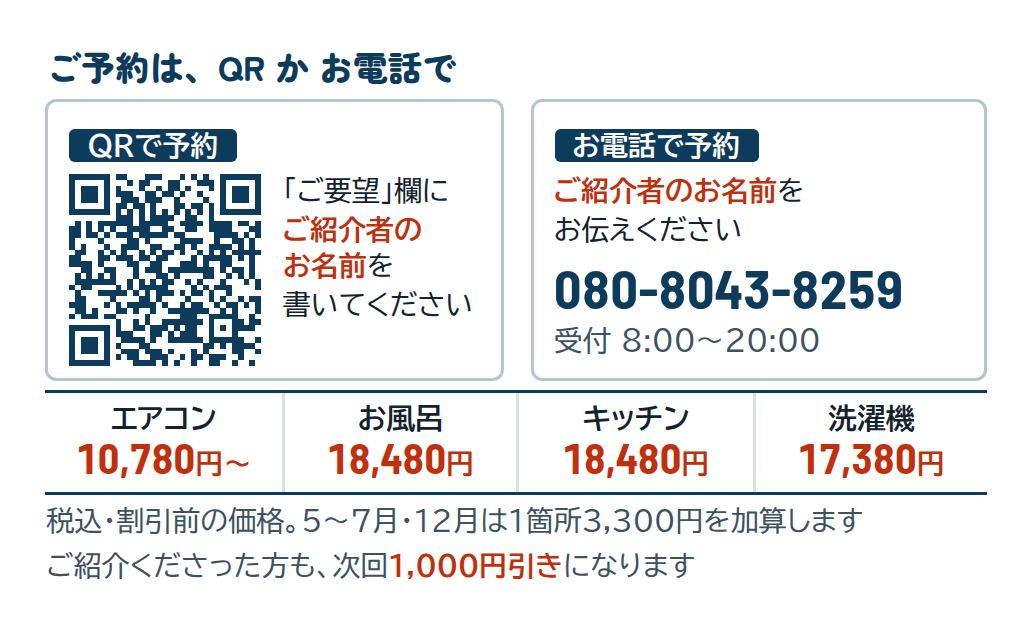
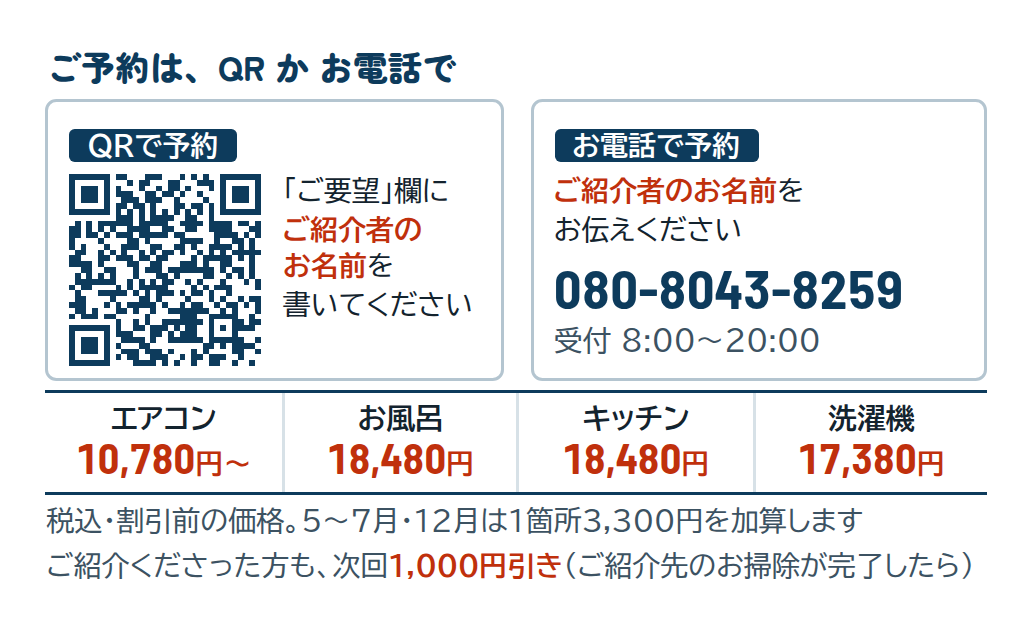
第一弾の決定版：チラシDにエアコン汚水の一文とチラシ特典500円、紹介カードDに有効期限なし
- 表の見出しを「エアコンの中から出てきた水」に（オーナー指示で写真の箇所を確定）
- チラシ特典 500円引き・併用不可（ご要望欄か電話で「チラシを見た」）を表裏に
- 紹介割引：有効期限なし、紹介した方の割引は紹介先の施工完了が条件
- prices.json と price-master に決定を記録
- 検査：要素が縮んで収まったように見える問題を止める

Claude-Session: https://claude.ai/code/session_01BfM6Am6neQsPdbrjtSZMy4

Changed region(s): [[0.5256, 0.8788, 0.9585, 0.9394]]

diff --git a/print/an/chirashi-d.html b/print/an/chirashi-d.html
@@ -19,7 +19,7 @@ mark { background:linear-gradient(transparent 58%,#FFE566 58%); color:inherit; p
 sup.n { font-size:.55em; vertical-align:.5em; margin-left:.2mm; font-family:"BIZ UDPGothic",sans-serif; font-weight:400; }
 
 /* 表 */
-.d-omote .bg { position:absolute; left:0; right:0; top:0; height:105mm; overflow:hidden; background:#0B1E2A; }
+.d-omote .bg { position:absolute; left:0; right:0; top:0; height:92mm; overflow:hidden; background:#0B1E2A; }
 .d-omote .bg img { width:100%; height:100%; object-fit:cover; object-position:50% 62%; display:block; }
 .d-omote .bg::after { content:""; position:absolute; left:0; right:0; bottom:0; height:55%;
                       background:linear-gradient(rgba(11,30,42,0),rgba(11,30,42,.92)); }
@@ -27,11 +27,13 @@ sup.n { font-size:.55em; vertical-align:.5em; margin-left:.2mm; font-family:"BIZ
 .d-omote .hello b { font-family:"Barlow Semi Condensed",sans-serif; letter-spacing:.1em; font-size:10pt; margin-right:1.4mm; }
 .d-omote .hello small { display:block; font-size:7.2pt; font-weight:400; color:#3C5262; }
 .d-omote .hook { margin-top:auto; color:#fff; height:auto; }
-.d-omote .hook-wrap { height:96mm; display:flex; flex-direction:column; }
-.d-omote .hook h1 { font-size:23pt; font-weight:900; line-height:1.3; }
+.d-omote .hook p b { color:#fff; }
+.d-omote .hook-wrap { height:79.6mm; display:flex; flex-direction:column; }
+.d-omote .safe > *, .d-ura .safe > * { flex-shrink:0; }   /* 縮めて詰め込まない。あふれたら検査で止まる */
+.d-omote .hook h1 { font-size:22pt; font-weight:900; line-height:1.3; }
 .d-omote .hook h1 em { font-style:normal; color:#FFE566; }
 .d-omote .hook p { font-size:9pt; color:#E3EDF3; margin-top:1.8mm; line-height:1.6; }
-.d-omote .prices { display:grid; grid-template-columns:repeat(4,1fr); margin-top:5mm; border-top:.45mm solid #0D3B5C; border-bottom:.45mm solid #0D3B5C; }
+.d-omote .prices { display:grid; grid-template-columns:repeat(4,1fr); margin-top:6.4mm; border-top:.45mm solid #0D3B5C; border-bottom:.45mm solid #0D3B5C; }
 .d-omote .prices div { text-align:center; padding:2mm .6mm 1.8mm; border-left:.2mm solid #D7E1E7; }
 .d-omote .prices div:first-child { border-left:0; }
 .d-omote .prices .k { font-size:9pt; font-weight:700; }
@@ -39,8 +41,15 @@ sup.n { font-size:.55em; vertical-align:.5em; margin-left:.2mm; font-family:"BIZ
 .d-omote .prices .v { font-size:19pt; color:#C0300C; line-height:1.05; margin-top:.8mm; }
 .d-omote .pnote { font-size:7.4pt; color:#3C5262; margin-top:1.4mm; line-height:1.55; }
 .d-omote .pnote b { color:#13232E; }
-.d-omote .why { display:grid; grid-template-columns:repeat(3,1fr); gap:2mm; margin-top:3.4mm; }
-.d-omote .why div { background:#FAF7F2; border-radius:1.2mm; padding:2.2mm 2.4mm; }
+.d-omote .coupon { margin-top:2.4mm; display:grid; grid-template-columns:auto auto 1fr; align-items:center; gap:3mm;
+                    border:.5mm dashed #C0300C; border-radius:1.4mm; padding:1.3mm 3mm; background:#FCEAE4; }
+.d-omote .coupon .tag { background:#C0300C; color:#fff; font-size:8pt; font-weight:900; line-height:1.2; text-align:center; padding:1.2mm 1.8mm; border-radius:.8mm; }
+.d-omote .coupon .big { font-size:10pt; font-weight:700; color:#13232E; white-space:nowrap; }
+.d-omote .coupon .big b { font-size:22pt; color:#C0300C; line-height:1; margin-left:1mm; }
+.d-omote .coupon .big .yen-u { font-size:10pt; color:#C0300C; }
+.d-omote .coupon .how { font-size:7pt; color:#3C5262; line-height:1.45; }
+.d-omote .why { display:grid; grid-template-columns:repeat(3,1fr); gap:2mm; margin-top:2.2mm; margin-bottom:2.4mm; }
+.d-omote .why div { background:#FAF7F2; border-radius:1.2mm; padding:1.6mm 2.4mm; }
 .d-omote .why b { display:block; font-size:9.4pt; color:#0D3B5C; line-height:1.3; }
 .d-omote .why b.num { font-size:15pt; line-height:1; }
 .d-omote .why span { display:block; font-size:7pt; color:#3C5262; line-height:1.45; margin-top:.8mm; }
@@ -68,7 +77,7 @@ sup.n { font-size:.55em; vertical-align:.5em; margin-left:.2mm; font-family:"BIZ
 .d-ura .sign li small { color:#536A78; font-size:7pt; margin-right:1mm; }
 .d-ura .sign p { font-size:7.2pt; color:#3C5262; margin-top:1.6mm; }
 .d-ura table { width:100%; border-collapse:collapse; margin-top:2mm; }
-.d-ura td { padding:1.25mm 0; border-bottom:.2mm solid #D7E1E7; font-size:9.6pt; font-weight:700; vertical-align:baseline; }
+.d-ura td { padding:1.1mm 0; border-bottom:.2mm solid #D7E1E7; font-size:9.6pt; font-weight:700; vertical-align:baseline; }
 .d-ura td small { font-size:7pt; font-weight:400; color:#536A78; margin-left:1mm; }
 .d-ura td.v { text-align:right; font-size:15pt; color:#C0300C; white-space:nowrap; }
 .d-ura td.s { text-align:right; font-size:7.2pt; font-weight:400; color:#3C5262; width:31mm; white-space:nowrap; padding-left:2mm; }
@@ -81,12 +90,12 @@ sup.n { font-size:.55em; vertical-align:.5em; margin-left:.2mm; font-family:"BIZ
 .d-ura .hanbo { font-size:7.2pt; color:#3C5262; margin-top:1.2mm; }
 .d-ura .ba { display:grid; grid-template-columns:repeat(3,1fr); gap:2.4mm; margin-top:2.4mm; }
 .d-ura .ba .ph { display:grid; grid-template-columns:1fr 1fr; gap:.5mm; position:relative; }
-.d-ura .ba img { width:100%; height:14mm; object-fit:cover; display:block; }
+.d-ura .ba img { width:100%; height:12.4mm; object-fit:cover; display:block; }
 .d-ura .ba .ph::before, .d-ura .ba .ph::after { position:absolute; bottom:.8mm; font-size:6.8pt; font-weight:700; color:#fff; padding:.1mm 1.2mm; border-radius:.5mm; }
 .d-ura .ba .ph::before { content:"前"; left:.8mm; background:rgba(60,82,98,.92); }
 .d-ura .ba .ph::after { content:"後"; left:calc(50% + 1mm); background:rgba(12,107,127,.94); }
 .d-ura .ba p { font-size:7.2pt; font-weight:700; margin-top:.8mm; }
-.d-ura .lower { display:grid; grid-template-columns:1fr 1.05fr; gap:3.4mm; margin-top:2.4mm; margin-bottom:2.4mm; }
+.d-ura .lower { display:grid; grid-template-columns:1fr 1.05fr; gap:3.4mm; margin-top:2mm; margin-bottom:1.8mm; }
 .d-ura .lower h3 { font-size:9pt; font-weight:900; color:#0D3B5C; margin-bottom:1.2mm; }
 .d-ura .flow ol { list-style:none; display:grid; gap:1.1mm; }
 .d-ura .flow li { font-size:7.6pt; line-height:1.4; display:grid; grid-template-columns:4.4mm 1fr; }
@@ -106,8 +115,8 @@ sup.n { font-size:.55em; vertical-align:.5em; margin-left:.2mm; font-family:"BIZ
 <div class="hook-wrap">
   <p class="hello"><b>ONE HITTER</b>ご近所のお宅で、お掃除をさせていただきました。<small>作業中は、車の出入りなどでお騒がせいたしました。</small></p>
   <div class="hook">
-    <h1 class="maru">この<em>黒い水</em>、<br>お掃除のあとに<br>回収した水です。</h1>
-    <p>ふだんのお掃除では届かない、奥の汚れです。<br>作業のあと、この水をお客様にもご覧いただいています。</p>
+    <h1 class="maru">この<em>黒い水</em>、<br>エアコンの中から<br>出てきた水です。</h1>
+    <p><b>エアコンクリーニングで、実際に排出された水です。</b><br>フィルター掃除では届かない、奥の汚れです。作業のあと、お客様にもご覧いただいています。</p>
   </div>
 </div>
 <div class="prices">
@@ -118,6 +127,9 @@ sup.n { font-size:.55em; vertical-align:.5em; margin-left:.2mm; font-family:"BIZ
 </div>
 <p class="pnote">すべて税込。<b>1台・1箇所からお受けします。</b><br>同じ日のご依頼なら、お風呂・キッチン・レンジフードは2箇所目から15,180円。<br>
 ※5〜7月・12月は、1箇所につき3,300円（税込）を加算します。料金の一覧は裏面に。</p>
+<div class="coupon"><span class="tag maru">チラシ<br>特典</span>
+  <p class="big">「チラシを見た」で<b class="num">500</b><span class="yen-u">円引き</span></p>
+  <p class="how">申込フォームの「ご要望」欄か、<br>お電話でお伝えください<br>（他の割引との併用はできません）</p></div>
 <div class="why">
   <div><b class="num">★5.0</b><span>Googleクチコミ 23件<br>（2026年9月時点）</span></div>
   <div><b class="maru">追加請求なし</b><span>お見積り以上は<br>いただきません<sup class="n">※1</sup></span></div>
@@ -167,7 +179,7 @@ sup.n { font-size:.55em; vertical-align:.5em; margin-left:.2mm; font-family:"BIZ
 <div class="cta">
[1 lines of base64/hex data omitted]
   <div><h3 class="maru">まずは<em>空いている日</em>を<br>見るだけでも</h3>
-    <p>訪問営業も電話営業もしていません。QRから日にちを選ぶだけです。</p>
+    <p>「ご要望」欄に<b style="color:#FFE566">「チラシを見た」で500円引き</b>（併用不可）。<br>訪問営業も電話営業もしていません。</p>
     <p class="tel num">080-8043-8259<small>お電話 8:00〜20:00</small></p></div>
 </div>
 <p class="foot">ワンヒッター株式会社　東京都江戸川区北葛西5-14-11 5F　対応エリア：東京都・千葉県・神奈川県</p>

diff --git a/print/an/card-d.html b/print/an/card-d.html
@@ -52,6 +52,7 @@ mark { background:linear-gradient(transparent 58%,#FFE566 58%); color:inherit; p
 .m-omote .offer { margin-top:auto; line-height:1; padding-bottom:.6mm; color:#fff; display:flex; align-items:baseline; gap:1.6mm; white-space:nowrap; }
 .m-omote .offer span { font-size:7.6pt; font-weight:700; }
 .m-omote .offer b { font-size:20pt; line-height:1; }
+.m-omote .offer .kigen { font-style:normal; margin-left:auto; font-size:7pt; font-weight:700; line-height:1.2; text-align:center; border:.3mm solid rgba(255,255,255,.8); border-radius:.6mm; padding:.6mm 1.2mm; align-self:center; }
 .m-omote .offer b .yen-u { font-size:9pt; margin-left:.3mm; }
 .m-omote .offer b .hiki { font-family:"Zen Maru Gothic",sans-serif; font-weight:900; font-size:11pt; line-height:1; }
 
@@ -81,7 +82,7 @@ mark { background:linear-gradient(transparent 58%,#FFE566 58%); color:inherit; p
 <div class="from"><i></i><span>さんからの、ご紹介です。</span></div>
 <p class="hint">↑ お渡しくださる方のお名前をお書きください</p>
 <div class="row2"><div class="icons"><div class="ic"><svg viewBox="0 0 24 24" fill="none" stroke="#0D3B5C" stroke-width="1.7" stroke-linecap="round" stroke-linejoin="round"><rect x="2.5" y="5" width="19" height="9" rx="2"/><path d="M5.5 11h13"/><path d="M8 17v2.5M12 17v3.5M16 17v2.5"/></svg><span>エアコン</span></div><div class="ic"><svg viewBox="0 0 24 24" fill="none" stroke="#0D3B5C" stroke-width="1.7" stroke-linecap="round" stroke-linejoin="round"><path d="M3 12h18v1.5A5.5 5.5 0 0 1 15.5 19h-7A5.5 5.5 0 0 1 3 13.5z"/><path d="M6 12V6.5a2.2 2.2 0 0 1 4.4 0"/><path d="M7.5 19l-1 2M16.5 19l1 2"/></svg><span>お風呂</span></div><div class="ic"><svg viewBox="0 0 24 24" fill="none" stroke="#0D3B5C" stroke-width="1.7" stroke-linecap="round" stroke-linejoin="round"><path d="M3 13h18"/><path d="M5 13v2.5A3.5 3.5 0 0 0 8.5 19h7a3.5 3.5 0 0 0 3.5-3.5V13"/><path d="M12 13V7.5a3 3 0 0 1 6 0V9"/></svg><span>キッチン</span></div><div class="ic"><svg viewBox="0 0 24 24" fill="none" stroke="#0D3B5C" stroke-width="1.7" stroke-linecap="round" stroke-linejoin="round"><rect x="4" y="2.5" width="16" height="19" rx="2"/><circle cx="12" cy="13.5" r="4.6"/><path d="M7 6h2.5M15 6h2"/></svg><span>洗濯機</span></div></div><p class="star">Googleクチコミ<br><b>★5.0</b>（23件）<br>2026年9月時点</p></div>
-<p class="offer"><span>このカードで、初回のお掃除が</span><b class="num">1,000<span class="yen-u">円</span><span class="hiki">引き</span></b></p>
+<p class="offer"><span>このカードで、初回のお掃除が</span><b class="num">1,000<span class="yen-u">円</span><span class="hiki">引き</span></b><em class="kigen">有効期限<br>なし</em></p>
 </div></div></section><section class="page k-ura"><div class="bgc"></div><div class="trim"><div class="safe">
 <h2 class="maru">ご予約は、QR か お電話で</h2>
 <div class="two">
@@ -99,5 +100,5 @@ mark { background:linear-gradient(transparent 58%,#FFE566 58%); color:inherit; p
   <div><span>洗濯機</span><b class="num">17,380<span class="yen-u">円</span></b></div>
 </div>
 <p class="note">税込・割引前の価格。5〜7月・12月は1箇所3,300円を加算します</p>
-<div class="foot"><p>ご紹介くださった方も、次回<b>1,000円引き</b>になります</p></div>
+<div class="foot"><p>ご紹介くださった方も、次回<b>1,000円引き</b>（ご紹介先のお掃除が完了したら）</p></div>
 </div></div></section></body></html>

diff --git a/print/an/card-c.html b/print/an/card-c.html
@@ -52,6 +52,7 @@ mark { background:linear-gradient(transparent 58%,#FFE566 58%); color:inherit; p
 .m-omote .offer { margin-top:auto; line-height:1; padding-bottom:.6mm; color:#fff; display:flex; align-items:baseline; gap:1.6mm; white-space:nowrap; }
 .m-omote .offer span { font-size:7.6pt; font-weight:700; }
 .m-omote .offer b { font-size:20pt; line-height:1; }
+.m-omote .offer .kigen { font-style:normal; margin-left:auto; font-size:7pt; font-weight:700; line-height:1.2; text-align:center; border:.3mm solid rgba(255,255,255,.8); border-radius:.6mm; padding:.6mm 1.2mm; align-self:center; }
 .m-omote .offer b .yen-u { font-size:9pt; margin-left:.3mm; }
 .m-omote .offer b .hiki { font-family:"Zen Maru Gothic",sans-serif; font-weight:900; font-size:11pt; line-height:1; }
 
@@ -101,5 +102,5 @@ mark { background:linear-gradient(transparent 58%,#FFE566 58%); color:inherit; p
   <div><span>洗濯機</span><b class="num">17,380<span class="yen-u">円</span></b></div>
 </div>
 <p class="note">税込・割引前の価格。5〜7月・12月は1箇所3,300円を加算します</p>
-<div class="foot"><p>ご紹介くださった方も、次回<b>1,000円引き</b>になります</p></div>
+<div class="foot"><p>ご紹介くださった方も、次回<b>1,000円引き</b>（ご紹介先のお掃除が完了したら）</p></div>
 </div></div></section></body></html>

diff --git a/tools/make-print-an.py b/tools/make-print-an.py
@@ -64,6 +64,7 @@ def prices():
         "hanbo": d["繁忙期加算"]["金額"],
         "shokai": d["紹介"]["紹介された方"]["金額"],
         "shokai_moto": d["紹介"]["消費者から消費者"]["金額"],
+        "tokuten": d["チラシ特典"]["金額"],
     }
     # 「2箇所目から○円」と書くので、浴室・キッチン・レンジフードの同時施工価格がそろっているか確かめる
     sets = {m[k]["同時施工"] for k in ("浴室クリーニング", "キッチンクリーニング", "レンジフードクリーニング")}
@@ -326,11 +327,13 @@ sup.n {{ font-size:.55em; vertical-align:.5em; margin-left:.2mm; font-family:"BI
 .d-omote .hello b {{ font-family:"Barlow Semi Condensed",sans-serif; letter-spacing:.1em; font-size:10pt; margin-right:1.4mm; }}
 .d-omote .hello small {{ display:block; font-size:7.2pt; font-weight:400; color:{text2}; }}
 .d-omote .hook {{ margin-top:auto; color:#fff; height:auto; }}
+.d-omote .hook p b {{ color:#fff; }}
 .d-omote .hook-wrap {{ height:{hookh}mm; display:flex; flex-direction:column; }}
-.d-omote .hook h1 {{ font-size:23pt; font-weight:900; line-height:1.3; }}
+.d-omote .safe > *, .d-ura .safe > * {{ flex-shrink:0; }}   /* 縮めて詰め込まない。あふれたら検査で止まる */
+.d-omote .hook h1 {{ font-size:22pt; font-weight:900; line-height:1.3; }}
 .d-omote .hook h1 em {{ font-style:normal; color:{mark}; }}
 .d-omote .hook p {{ font-size:9pt; color:#E3EDF3; margin-top:1.8mm; line-height:1.6; }}
-.d-omote .prices {{ display:grid; grid-template-columns:repeat(4,1fr); margin-top:5mm; border-top:.45mm solid {ink}; border-bottom:.45mm solid {ink}; }}
+.d-omote .prices {{ display:grid; grid-template-columns:repeat(4,1fr); margin-top:6.4mm; border-top:.45mm solid {ink}; border-bottom:.45mm solid {ink}; }}
 .d-omote .prices div {{ text-align:center; padding:2mm .6mm 1.8mm; border-left:.2mm solid {rule}; }}
 .d-omote .prices div:first-child {{ border-left:0; }}
 .d-omote .prices .k {{ font-size:9pt; font-weight:700; }}
@@ -338,8 +341,15 @@ sup.n {{ font-size:.55em; vertical-align:.5em; margin-left:.2mm; font-family:"BI
 .d-omote .prices .v {{ font-size:19pt; color:{cta}; line-height:1.05; margin-top:.8mm; }}
 .d-omote .pnote {{ font-size:7.4pt; color:{text2}; margin-top:1.4mm; line-height:1.55; }}
 .d-omote .pnote b {{ color:{text}; }}
-.d-omote .why {{ display:grid; grid-template-columns:repeat(3,1fr); gap:2mm; margin-top:3.4mm; }}
-.d-omote .why div {{ background:{paper}; border-radius:1.2mm; padding:2.2mm 2.4mm; }}
+.d-omote .coupon {{ margin-top:2.4mm; display:grid; grid-template-columns:auto auto 1fr; align-items:center; gap:3mm;
+                    border:.5mm dashed {cta}; border-radius:1.4mm; padding:1.3mm 3mm; background:{ctasoft}; }}
+.d-omote .coupon .tag {{ background:{cta}; color:#fff; font-size:8pt; font-weight:900; line-height:1.2; text-align:center; padding:1.2mm 1.8mm; border-radius:.8mm; }}
+.d-omote .coupon .big {{ font-size:10pt; font-weight:700; color:{text}; white-space:nowrap; }}
+.d-omote .coupon .big b {{ font-size:22pt; color:{cta}; line-height:1; margin-left:1mm; }}
+.d-omote .coupon .big .yen-u {{ font-size:10pt; color:{cta}; }}
+.d-omote .coupon .how {{ font-size:7pt; color:{text2}; line-height:1.45; }}
+.d-omote .why {{ display:grid; grid-template-columns:repeat(3,1fr); gap:2mm; margin-top:2.2mm; margin-bottom:2.4mm; }}
+.d-omote .why div {{ background:{paper}; border-radius:1.2mm; padding:1.6mm 2.4mm; }}
 .d-omote .why b {{ display:block; font-size:9.4pt; color:{ink}; line-height:1.3; }}
 .d-omote .why b.num {{ font-size:15pt; line-height:1; }}
 .d-omote .why span {{ display:block; font-size:7pt; color:{text2}; line-height:1.45; margin-top:.8mm; }}
@@ -367,7 +377,7 @@ sup.n {{ font-size:.55em; vertical-align:.5em; margin-left:.2mm; font-family:"BI
 .d-ura .sign li small {{ color:{steel}; font-size:7pt; margin-right:1mm; }}
 .d-ura .sign p {{ font-size:7.2pt; color:{text2}; margin-top:1.6mm; }}
 .d-ura table {{ width:100%; border-collapse:collapse; margin-top:2mm; }}
-.d-ura td {{ padding:1.25mm 0; border-bottom:.2mm solid {rule}; font-size:9.6pt; font-weight:700; vertical-align:baseline; }}
+.d-ura td {{ padding:1.1mm 0; border-bottom:.2mm solid {rule}; font-size:9.6pt; font-weight:700; vertical-align:baseline; }}
 .d-ura td small {{ font-size:7pt; font-weight:400; color:{steel}; margin-left:1mm; }}
 .d-ura td.v {{ text-align:right; font-size:15pt; color:{cta}; white-space:nowrap; }}
 .d-ura td.s {{ text-align:right; font-size:7.2pt; font-weight:400; color:{text2}; width:31mm; white-space:nowrap; padding-left:2mm; }}
@@ -380,12 +390,12 @@ sup.n {{ font-size:.55em; vertical-align:.5em; margin-left:.2mm; font-family:"BI
 .d-ura .hanbo {{ font-size:7.2pt; color:{text2}; margin-top:1.2mm; }}
 .d-ura .ba {{ display:grid; grid-template-columns:repeat(3,1fr); gap:2.4mm; margin-top:2.4mm; }}
 .d-ura .ba .ph {{ display:grid; grid-template-columns:1fr 1fr; gap:.5mm; position:relative; }}
-.d-ura .ba img {{ width:100%; height:14mm; object-fit:cover; display:block; }}
+.d-ura .ba img {{ width:100%; height:12.4mm; object-fit:cover; display:block; }}
 .d-ura .ba .ph::before, .d-ura .ba .ph::after {{ position:absolute; bottom:.8mm; font-size:6.8pt; font-weight:700; color:#fff; padding:.1mm 1.2mm; border-radius:.5mm; }}
 .d-ura .ba .ph::before {{ content:"前"; left:.8mm; background:rgba(60,82,98,.92); }}
 .d-ura .ba .ph::after {{ content:"後"; left:calc(50% + 1mm); background:rgba(12,107,127,.94); }}
 .d-ura .ba p {{ font-size:7.2pt; font-weight:700; margin-top:.8mm; }}
-.d-ura .lower {{ display:grid; grid-template-columns:1fr 1.05fr; gap:3.4mm; margin-top:2.4mm; margin-bottom:2.4mm; }}
+.d-ura .lower {{ display:grid; grid-template-columns:1fr 1.05fr; gap:3.4mm; margin-top:2mm; margin-bottom:1.8mm; }}
 .d-ura .lower h3 {{ font-size:9pt; font-weight:900; color:{ink}; margin-bottom:1.2mm; }}
 .d-ura .flow ol {{ list-style:none; display:grid; gap:1.1mm; }}
 .d-ura .flow li {{ font-size:7.6pt; line-height:1.4; display:grid; grid-template-columns:4.4mm 1fr; }}
@@ -410,8 +420,8 @@ def chirashi_d(p):
 <div class="hook-wrap">
   <p class="hello"><b>ONE HITTER</b>ご近所のお宅で、お掃除をさせていただきました。<small>作業中は、車の出入りなどでお騒がせいたしました。</small></p>
   <div class="hook">
-    <h1 class="maru">この<em>黒い水</em>、<br>お掃除のあとに<br>回収した水です。</h1>
-    <p>ふだんのお掃除では届かない、奥の汚れです。<br>作業のあと、この水をお客様にもご覧いただいています。</p>
+    <h1 class="maru">この<em>黒い水</em>、<br>エアコンの中から<br>出てきた水です。</h1>
+    <p><b>エアコンクリーニングで、実際に排出された水です。</b><br>フィルター掃除では届かない、奥の汚れです。作業のあと、お客様にもご覧いただいています。</p>
   </div>
 </div>
 <div class="prices">
@@ -422,6 +432,9 @@ def chirashi_d(p):
 </div>
 <p class="pnote">すべて税込。<b>1台・1箇所からお受けします。</b><br>同じ日のご依頼なら、お風呂・キッチン・レンジフードは2箇所目から{p['set2']}円。<br>
 ※{hanbo}料金の一覧は裏面に。</p>
+<div class="coupon"><span class="tag maru">チラシ<br>特典</span>
+  <p class="big">「チラシを見た」で<b class="num">{p['tokuten']}</b><span class="yen-u">円引き</span></p>
+  <p class="how">申込フォームの「ご要望」欄か、<br>お電話でお伝えください<br>（他の割引との併用はできません）</p></div>
 <div class="why">
   <div><b class="num">★5.0</b><span>Googleクチコミ 23件<br>（2026年9月時点）</span></div>
   <div><b class="maru">追加請求なし</b><span>お見積り以上は<br>いただきません<sup class="n">※1</sup></span></div>
@@ -480,12 +493,12 @@ def chirashi_d(p):
 <div class="cta">
   <div class="qr"><img src="{qr('chirashi', 'd')}" alt=""></div>
   <div><h3 class="maru">まずは<em>空いている日</em>を<br>見るだけでも</h3>
-    <p>訪問営業も電話営業もしていません。QRから日にちを選ぶだけです。</p>
+    <p>「ご要望」欄に<b style="color:#FFE566">「チラシを見た」で{p['tokuten']}円引き</b>（併用不可）。<br>訪問営業も電話営業もしていません。</p>
     <p class="tel num">{TEL}<small>お電話 8:00〜20:00</small></p></div>
 </div>
 <p class="foot">ワンヒッター株式会社　東京都江戸川区北葛西5-14-11 5F　対応エリア：東京都・千葉県・神奈川県</p>
 """
-    css = CSS_D.replace("{photoh}", str(BLEED + 6 + 96)).replace("{hookh}", "96")
+    css = CSS_D.replace("{photoh}", str(BLEED + 6 + 83)).replace("{hookh}", "79.6")   # 写真の下端は文字の3.4mm下
     return doc("近隣チラシ 案D（両面）", css, [page("d-omote", omote, bg), page("d-ura", ura)], 148, 210)
 
 
@@ -672,6 +685,7 @@ CSS_CARD = """
 .m-omote .offer {{ margin-top:auto; line-height:1; padding-bottom:.6mm; color:#fff; display:flex; align-items:baseline; gap:1.6mm; white-space:nowrap; }}
 .m-omote .offer span {{ font-size:7.6pt; font-weight:700; }}
 .m-omote .offer b {{ font-size:20pt; line-height:1; }}
+.m-omote .offer .kigen {{ font-style:normal; margin-left:auto; font-size:7pt; font-weight:700; line-height:1.2; text-align:center; border:.3mm solid rgba(255,255,255,.8); border-radius:.6mm; padding:.6mm 1.2mm; align-self:center; }}
 .m-omote .offer b .yen-u {{ font-size:9pt; margin-left:.3mm; }}
 .m-omote .offer b .hiki {{ font-family:"Zen Maru Gothic",sans-serif; font-weight:900; font-size:11pt; line-height:1; }}
 
@@ -717,7 +731,7 @@ def card_ura(p, cid):
   <div><span>洗濯機</span><b class="num">{p['wash']}<span class="yen-u">円</span></b></div>
 </div>
 <p class="note">税込・割引前の価格。5〜7月・12月は1箇所{p['hanbo']}円を加算します</p>
-<div class="foot"><p>ご紹介くださった方も、次回<b>{p['shokai_moto']}円引き</b>になります</p></div>
+<div class="foot"><p>ご紹介くださった方も、次回<b>{p['shokai_moto']}円引き</b>（ご紹介先のお掃除が完了したら）</p></div>
 """
 
 
@@ -744,7 +758,7 @@ def card_d(p):
 <div class="from"><i></i><span>さんからの、ご紹介です。</span></div>
 <p class="hint">↑ お渡しくださる方のお名前をお書きください</p>
 <div class="row2"><div class="icons">{icons(C['ink'])}</div><p class="star">Googleクチコミ<br><b>★5.0</b>（23件）<br>2026年9月時点</p></div>
-<p class="offer"><span>このカードで、初回のお掃除が</span><b class="num">{p['shokai']}<span class="yen-u">円</span><span class="hiki">引き</span></b></p>
+<p class="offer"><span>このカードで、初回のお掃除が</span><b class="num">{p['shokai']}<span class="yen-u">円</span><span class="hiki">引き</span></b><em class="kigen">有効期限<br>なし</em></p>
 """
     css = CSS_CARD.replace("{edge}", "0").replace("{bandh}", str(bandh))
     return doc("紹介カード 案D", css, [page("m-omote", omote, '<div class="bgc"></div><div class="band"></div>'),

diff --git a/docs/price-master.md b/docs/price-master.md
@@ -114,16 +114,22 @@ LP案Bのシミュレーターを実装している。
 | 早期予約（次回予約） 3〜4月・8〜10月 | 10% |
 | 早期予約（次回予約） 5〜7月・11〜12月 | なし（繁忙期のため） |
 
+### 近隣チラシ特典（2026-10-03 オーナー決定）
+
+- **500円引き・他の割引と併用不可。** 申込フォームの「ご要望」欄か、お電話で「チラシを見た」と伝えていただく
+- 1世帯1回か・期限は未決（10/3 MTG の議題）。チラシには「500円引き（他の割引との併用不可）」までしか書いていない
+
 ### 紹介の還元は2種類ある（2026-09-06 オーナー確認）
 
 **紹介元が誰かで変わります。ここを取り違えないこと。**
 
 | 紹介元 | 還元 |
 |---|---|
-| **消費者 → 消費者**（お客様がお友達を紹介） | **一律 1,000円**（紹介した本人の次回料金から割引） |
-| **紹介された方**（消費者 → 消費者の紹介で申し込んだ方） | **初回 1,000円割引**（予約時に紹介者の名前を伝える。2026-09-27 オーナー決定） |
+| **消費者 → 消費者**（お客様がお友達を紹介） | **一律 1,000円**（紹介した本人の次回料金から割引。**紹介先の方の施工が完了した場合**。有効期限なし。2026-10-03 オーナー決定） |
+| **紹介された方**（消費者 → 消費者の紹介で申し込んだ方） | **初回 1,000円割引**（予約時に紹介者の名前を伝える。2026-09-27 オーナー決定。有効期限なし：2026-10-03） |
 | **事業者 → 顧客**（提携先が顧客を紹介） | **5〜15%、原則12%** |
 
+- **期限が無いので、顧客台帳に「誰が誰を紹介したか」を記録し、受注時に思い出せる仕組みが要る**（2026-10-03 オーナー。CMOへ連携済み）。
 - 消費者間の紹介は公式LINEでクーポンとして配布中。アンケートの完了画面にも同じ1,000円割引を載せています。
 - 見積ルールタブには「紹介料 1〜2月:5%／その他:10%」という古い記載が残っています。
   **上の表が正**です。タブ側は要修正。
